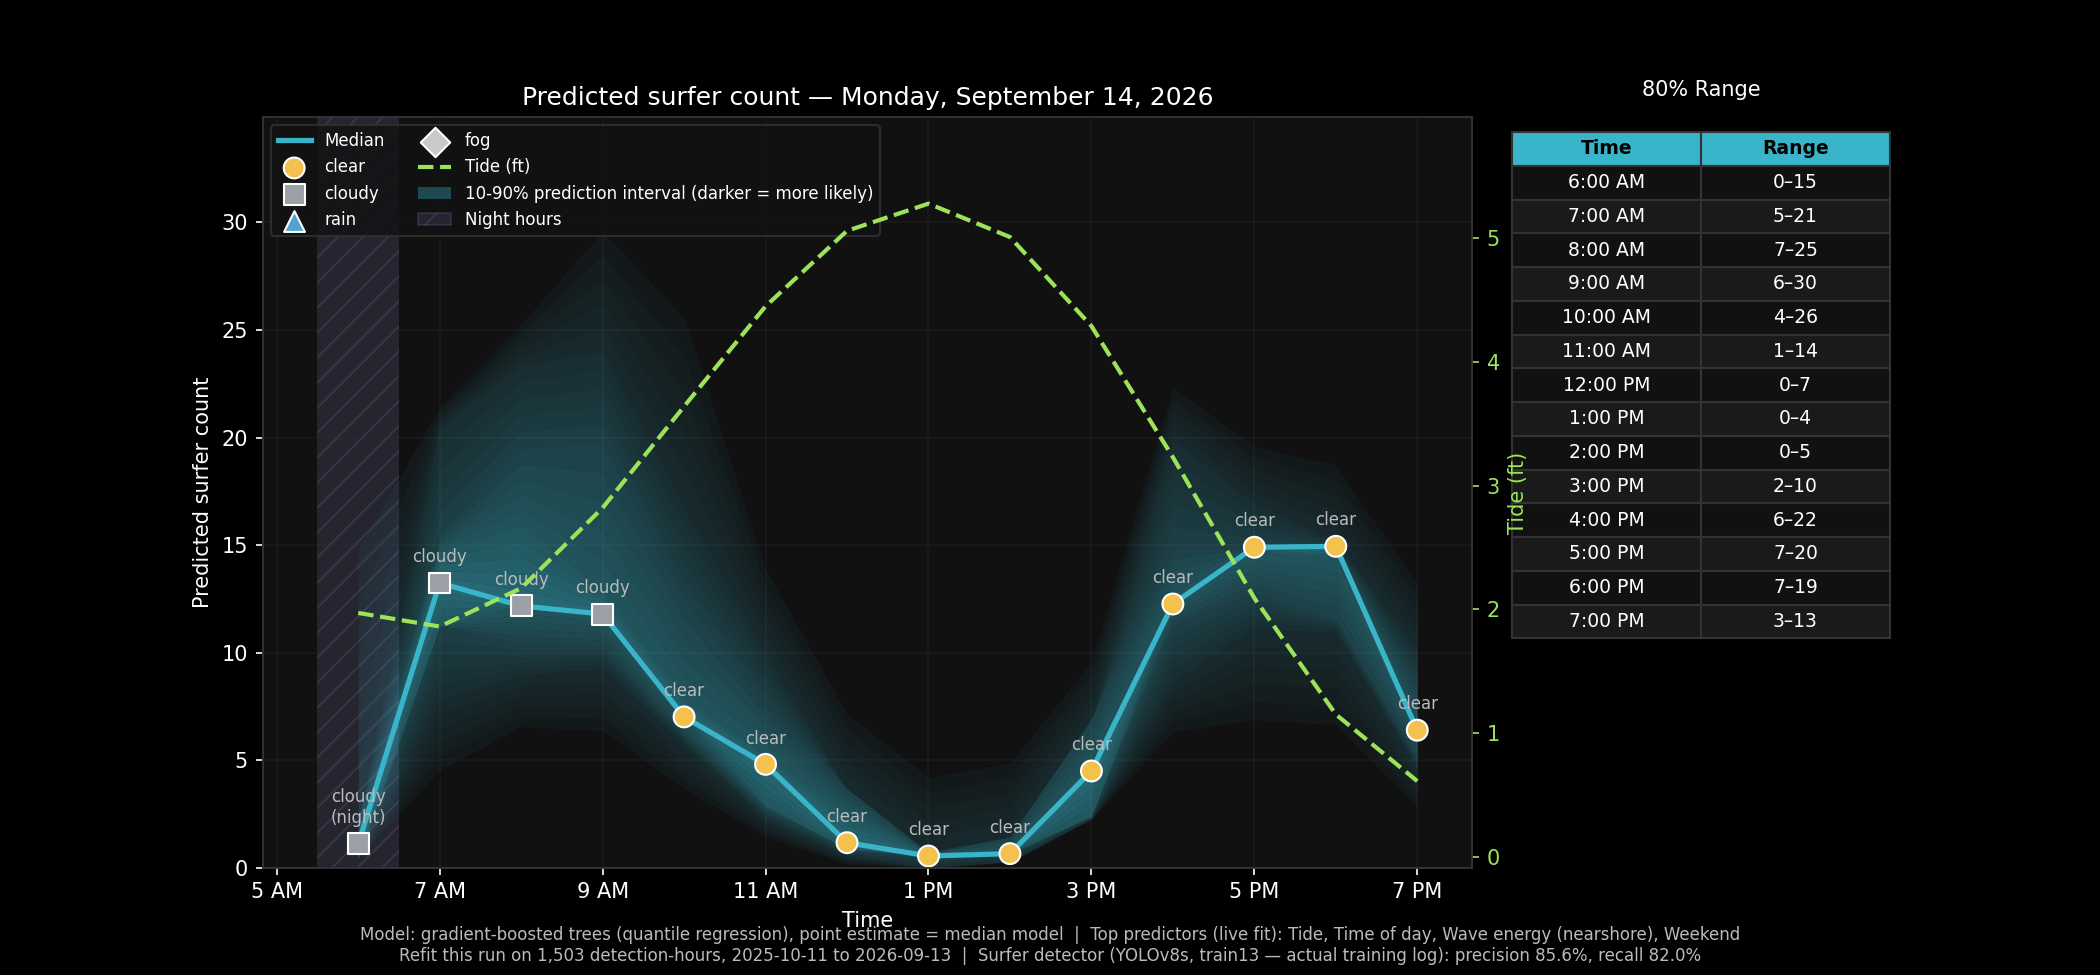
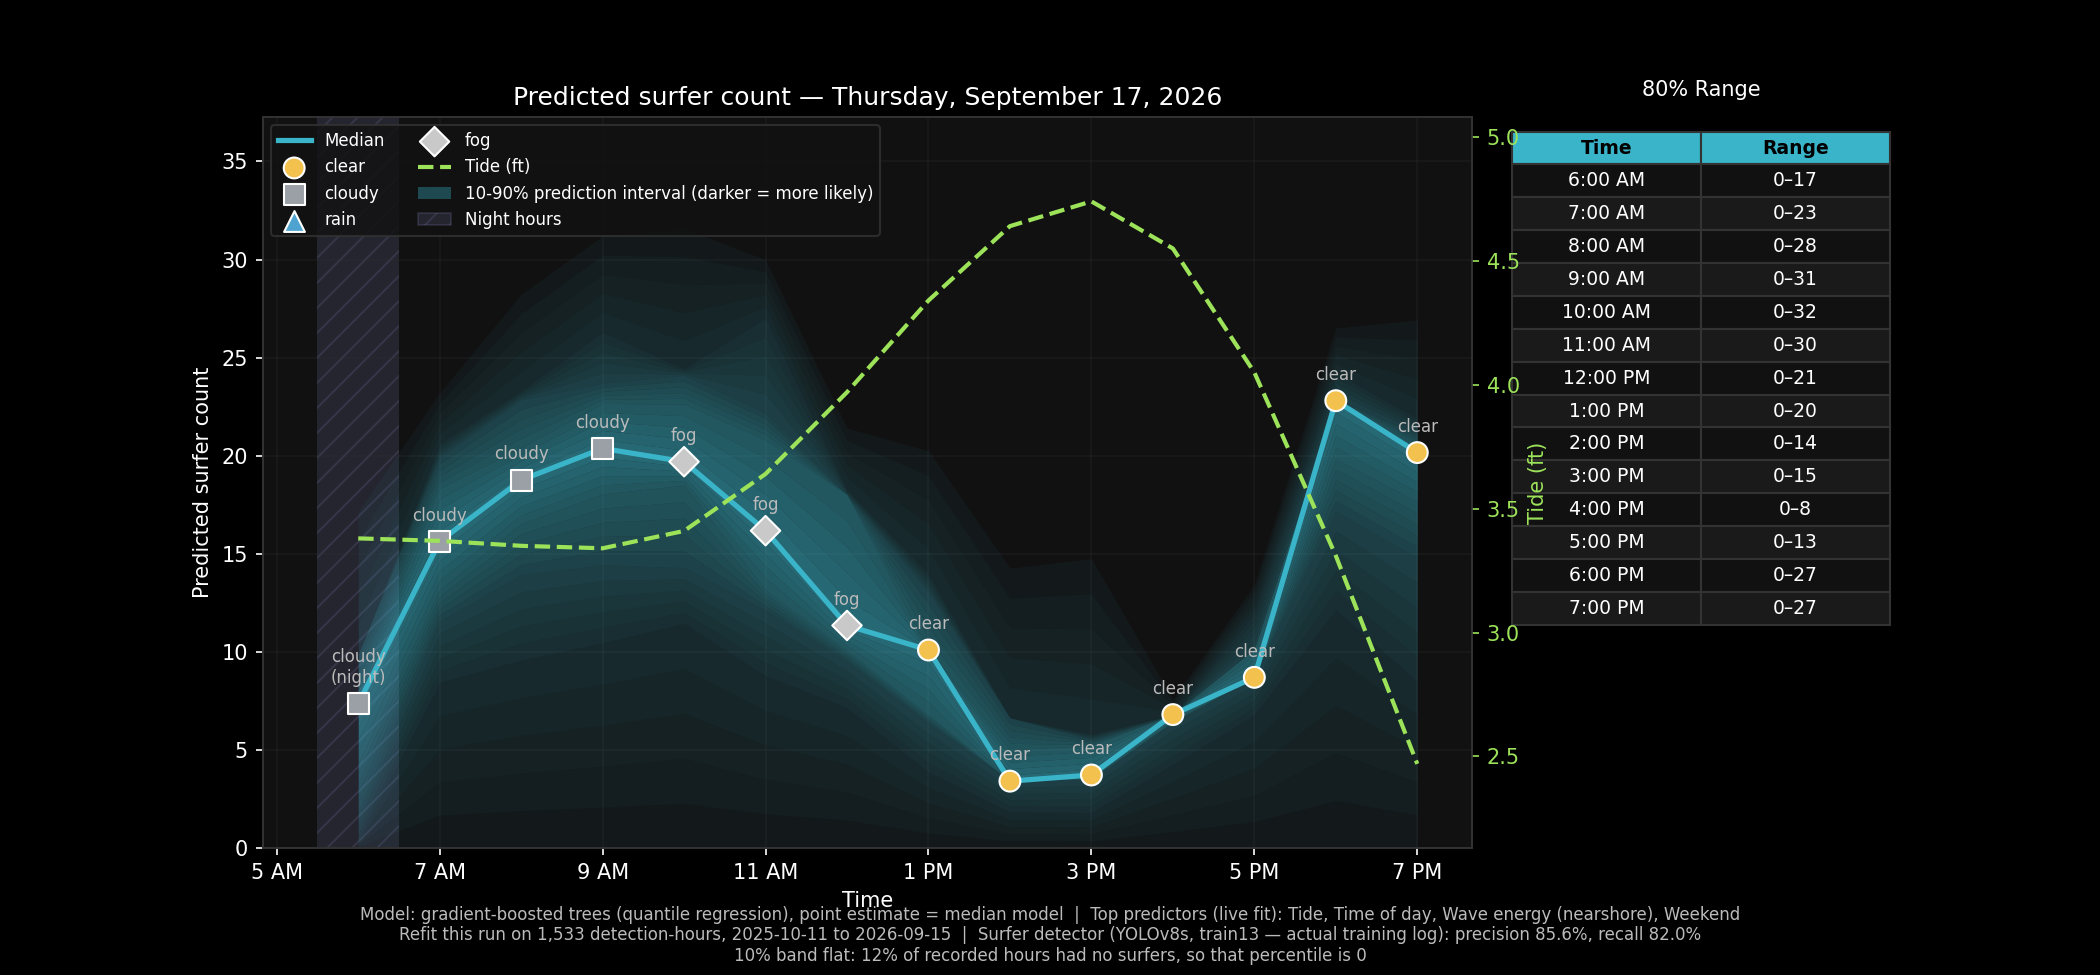
Draw the 10% band flat instead of killing the chart, and stop retrying deterministic failures
The 2026-09-15 run produced no chart: the q=0.10 fit collapsed, the guard
raised, and the retry ladder burned 50 minutes reproducing it.

The collapse is correct here. At 1,533 rows, 11.8% of hours have zero
surfers, so the true 10th percentile is exactly 0.00 — a sweep of
min_samples_leaf from 20 to 600 gives a flat zero everywhere except one fluke
at 400 that tops out at 2. The 20th percentile is 2.0 and fits normally.
Unlike the two earlier collapses, no hyperparameter recovers signal that
isn't there.

fit_quantile_model_robust gains opt-in allow_degenerate, returning a
ConstantQuantileModel built from the collapsed fit's own mean rather than a
hardcoded zero. Only the chart opts in; calibration keeps the default and
still raises, since a flat band would flatter those numbers.

The chart states it in the footer, plot_daily_prediction.py exits 3 on a
RuntimeError, and daily_chart.sh breaks its retry loop on that code.

Claude-Session: https://claude.ai/code/session_01C2GCpQELsJRUSZjSZDcA3i

diff --git a/code/plot_daily_prediction.py b/code/plot_daily_prediction.py
@@ -148,7 +148,17 @@ def main():
     # as a continuous-looking gradient by interpolating between them at plot
     # time (see the fill loop below) rather than fitting dozens of models.
     # FAN_LEVELS[4] (0.50) is the median / point estimate.
-    quantile_models = {level: fit_quantile_model_robust(X_std, y, level)[0] for level in FAN_LEVELS}
+    # allow_degenerate=True: with ~12% of hours at zero surfers the true 10th
+    # percentile is 0.00, so that level collapses to a flat zero by rights, not
+    # by mis-fitting (see fit_surfer_count_model.ConstantQuantileModel). Before
+    # 2026-09-16 that raised and killed the whole chart — the 09-15 run produced
+    # nothing at all. A display chart can draw a flat band honestly; calibration
+    # code still uses the default and still raises.
+    quantile_models = {level: fit_quantile_model_robust(X_std, y, level, allow_degenerate=True)[0]
+                       for level in FAN_LEVELS}
+    degenerate_levels = [lv for lv, m in quantile_models.items() if getattr(m, "degenerate", False)]
+    if degenerate_levels:
+        print(f"  Degenerate quantile level(s): {degenerate_levels} — drawn as flat bands.")
 
     by_hour = sp.build_predictor_map()
     local_tz = pytz.timezone(gc.LOCATION["timezone"])
@@ -281,6 +291,14 @@ def main():
         f"|  Surfer detector (YOLOv8s, train13 — actual training log): "
         f"precision {DETECTOR_PRECISION:.1%}, recall {DETECTOR_RECALL:.1%}"
     )
+    if degenerate_levels:
+        # Say so on the chart itself: a band pinned flat is a real statement
+        # about the data, and a reader should not mistake it for a fitted curve.
+        zero_pct = (y == 0).mean()
+        info_text += (
+            f"\n{', '.join(f'{lv:.0%}' for lv in degenerate_levels)} band flat: "
+            f"{zero_pct:.0%} of recorded hours had no surfers, so that percentile is 0"
+        )
     fig.text(0.5, 0.01, info_text, fontsize=8, ha="center", va="bottom", color=MUTED_TEXT)
 
     ax2 = ax.twinx()
@@ -340,7 +358,12 @@ def main():
             cell.set_facecolor(AXES_BG)
             cell.set_text_props(color=TEXT_COLOR)
 
+    # tight_layout's rect is ignored on this figure (it warns that the twinx and
+    # table axes are incompatible), so the bottom margin is set explicitly
+    # afterwards. Needed once the degenerate-band note added a third footer
+    # line, which ran straight into the "Time" axis label.
     fig.tight_layout(rect=[0, 0.06, 1, 1])
+    fig.subplots_adjust(bottom=0.10 + 0.03 * (info_text.count("\n") - 1))
 
     CHARTS_DIR.mkdir(parents=True, exist_ok=True)
     out_path = CHARTS_DIR / f"surfer_count_{target_date.isoformat()}.png"
@@ -523,4 +546,12 @@ def update_readme(target_date, detection_capture=None):
 
 
 if __name__ == "__main__":
-    main()
+    try:
+        main()
+    except RuntimeError as e:
+        # Exit 3 marks a deterministic modelling failure, as opposed to the
+        # transient network errors daily_chart.sh retries. Retrying this kind
+        # just burns 50 minutes and fails identically — which is what happened
+        # on 2026-09-15.
+        print(f"DETERMINISTIC FAILURE (not retryable): {e}", file=sys.stderr)
+        sys.exit(3)

diff --git a/code/fit_surfer_count_model.py b/code/fit_surfer_count_model.py
@@ -238,8 +238,31 @@ QUANTILE_MIN_LEAF_CANDIDATES = (20, 30, 40, 50, 75, 100, 150, 200)
 QUANTILE_DEGENERATE_STD_THRESHOLD = 0.5
 
 
+class ConstantQuantileModel:
+    """Stand-in for a quantile level that is genuinely degenerate in this data.
+
+    Not a workaround for a bad fit. With ~12% of hours at exactly zero surfers,
+    the true 10th percentile of surfer_count IS 0.00, so "predict 0 everywhere"
+    is the correct answer at that level rather than a failed one — verified
+    2026-09-16 by sweeping min_samples_leaf from 20 to 600, where every value
+    returns a flat zero except one fluke at 400 that tops out at 2 surfers.
+    Callers that need a real, varying model (calibration, coverage reporting)
+    must keep the default and let the error raise; only display code that can
+    honestly draw a flat band should opt in.
+    """
+
+    def __init__(self, value, quantile):
+        self.value = float(value)
+        self.quantile = quantile
+        self.degenerate = True
+
+    def predict(self, X):
+        return np.full(len(X), self.value)
+
+
 def fit_quantile_model_robust(X_train, y_train, quantile, base_kwargs=None,
-                               min_leaf_candidates=QUANTILE_MIN_LEAF_CANDIDATES):
+                               min_leaf_candidates=QUANTILE_MIN_LEAF_CANDIDATES,
+                               allow_degenerate=False):
     """Fits a quantile-loss GBT with a self-check against silent collapse to a
     near-constant prediction — a real, repeatedly-observed failure mode for this
     dataset's extreme (zero-inflated) quantiles, NOT something one fixed
@@ -266,6 +289,13 @@ def fit_quantile_model_robust(X_train, y_train, quantile, base_kwargs=None,
         train_std = model.predict(X_train).std()
         if train_std > QUANTILE_DEGENERATE_STD_THRESHOLD:
             return model, min_leaf
+    if allow_degenerate:
+        # Report the constant the collapsed fit actually settled on rather than
+        # assuming zero, so a future collapse at some other value is visible.
+        constant = float(model.predict(X_train).mean())
+        print(f"  NOTE: quantile={quantile} is degenerate in this data — every min_samples_leaf "
+              f"candidate collapsed to ~{constant:.2f}. Using a constant {constant:.2f} for this level.")
+        return ConstantQuantileModel(constant, quantile), None
     raise RuntimeError(
         f"Quantile GBT (quantile={quantile}) collapsed to a near-constant prediction "
         f"for every min_samples_leaf candidate tried {min_leaf_candidates} — needs "

diff --git a/docs/PROJECT_HISTORY.md b/docs/PROJECT_HISTORY.md
@@ -3009,3 +3009,47 @@ Open risk: Full Disk Access. The grants for `/usr/sbin/cron` and the real
 Python binary do not obviously cover a job launched by launchd through
 `/bin/bash`; a TCC denial would appear as `Operation not permitted` in
 `data/local_pipeline.log`. One manual `launchctl kickstart` answers it.
+
+### The 10% band is genuinely zero; chart no longer dies on it (2026-09-16)
+
+The 2026-09-15 run produced no chart at all. Step 9 fired correctly at 20:31 —
+the chaining worked — but `plot_daily_prediction.py` raised out of
+`fit_quantile_model_robust(quantile=0.1)`, then retried four times over 50
+minutes and failed identically each time.
+
+**This one is the data, not a bad fit.** At 1,533 rows, **11.8% of hours have
+zero surfers**, which puts the true 10th percentile of `surfer_count` at
+exactly **0.00**. "Predict 0 everywhere" is therefore the correct answer at
+that level. A sweep of `min_samples_leaf` from 20 to 600 returns a flat zero
+at every value except 400, a fluke that scrapes past the 0.5 std threshold
+with a maximum of 2 surfers. The 20th percentile is 2.0 and fits normally
+(std ~6.1-6.9), so only the bottom band is affected.
+
+That makes it unlike the two earlier collapses, which were hyperparameter
+problems (l2, depth) hiding real signal. The guard was right to refuse a
+silent trivial model then, and is wrong to kill the chart now.
+
+Changes, per Joel's call:
+
+- **`ConstantQuantileModel` + `allow_degenerate=True`** in
+  `fit_surfer_count_model.py`. Opt-in, and only display code opts in:
+  calibration and coverage reporting keep the default and still raise, since a
+  flat band would quietly flatter those numbers. The constant comes from the
+  collapsed fit's own mean prediction rather than being hardcoded to zero, so
+  a future collapse at some other value is visible.
+- **The chart says so on its face.** A third footer line reads "10% band flat:
+  12% of recorded hours had no surfers, so that percentile is 0". A band
+  pinned flat is a statement about the data, not a fitted curve, and should
+  not read as one. The hourly range table now shows `0-N` for every hour,
+  which is what the model is actually claiming.
+- **Deterministic failures no longer retry.** `plot_daily_prediction.py` exits
+  **3** on a `RuntimeError`, and `daily_chart.sh` breaks out of its retry loop
+  on that code instead of burning the full 50-minute window. The retry ladder
+  still covers the transient network case it was built for (2026-08-31).
+- **Footer margin now scales with line count.** The third line collided with
+  the "Time" axis label. `tight_layout`'s `rect` is ignored on this figure (it
+  warns that the twinx and table axes are incompatible), so the bottom margin
+  is set explicitly with `subplots_adjust` afterwards.
+
+Verified by generating the chart: the 0.1 level reports as degenerate, the
+band renders flat at zero, the footer note appears, and nothing overlaps.

diff --git a/README.md b/README.md
@@ -76,12 +76,12 @@ tuned over time, and [PROJECT_FILES.md](docs/PROJECT_FILES.md) for a map
 of what every file in this repo does.
 
 <!-- DAILY_CHART_START -->
-#### A Recent Surfer Detection Count: Sunday, September 13, 2026, 8:05 AM
+#### A Recent Surfer Detection Count: Tuesday, September 15, 2026, 8:05 AM
 
 Each green box below contains a surfer, according to the object detection model.  Each number above a box indicates the probability that the object is a surfer.  Look carefully and you may find additional surfers that the model missed or other objects which are misclassified as surfers - like the wind sock at the bottom center of the photo.
 ![Latest detection review](data/charts/latest_detection.png)
 
-#### The Surfer Crowd Forecast for: Monday, September 14, 2026
+#### The Surfer Crowd Forecast for: Thursday, September 17, 2026
 
 Once enough hours and days were gathered along with weather and surf conditions, a surf count prediction model was built to forecast how many surfers would be present at each hour for the coming day.  This is useful for surfers to plan to avoid busy times or at least know what to expect.  Recently the predictions have been low compared to actual counts, so more images are being collected to improve the object detection model's ability to find surfers in a variety of light and water conditions, like fog or choppy water surfaces.
 ![Latest daily prediction chart](data/charts/latest.png)
